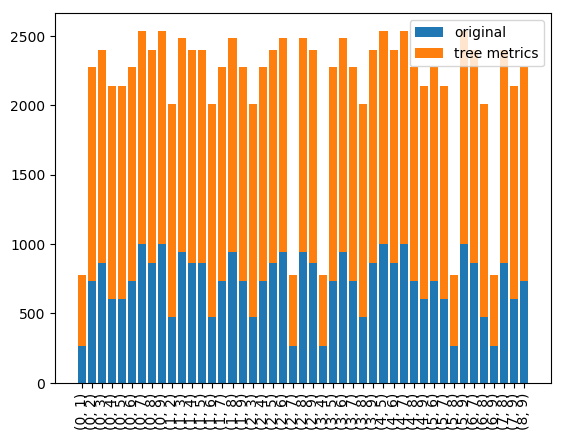
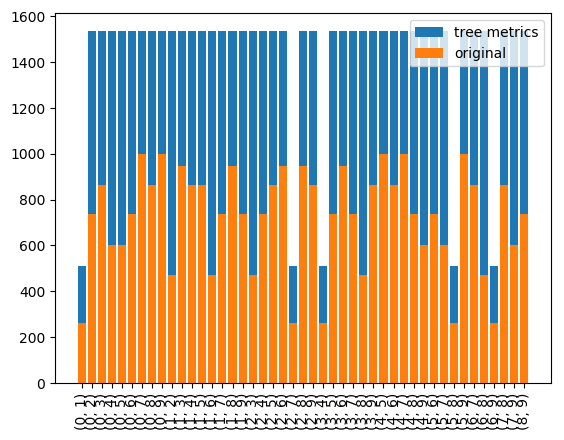
mod: tree decomposition

diff --git a/approximation_algorithms/chapter_08/8.5/tree_decomposition.py b/approximation_algorithms/chapter_08/8.5/tree_decomposition.py
@@ -81,8 +81,8 @@ def draw_dist_gaps(dists, T):
         a.append(Tdists[repr(set([u]))][repr(set([v]))])
     plt.clf()
     i = range(len(o))
+    plt.bar(i, a, label="tree metrics")
     plt.bar(i, o, label="original")
-    plt.bar(i, a, bottom=o, label="tree metrics")
     plt.legend(loc='best')
     plt.xticks(i, x, rotation=90)
 
